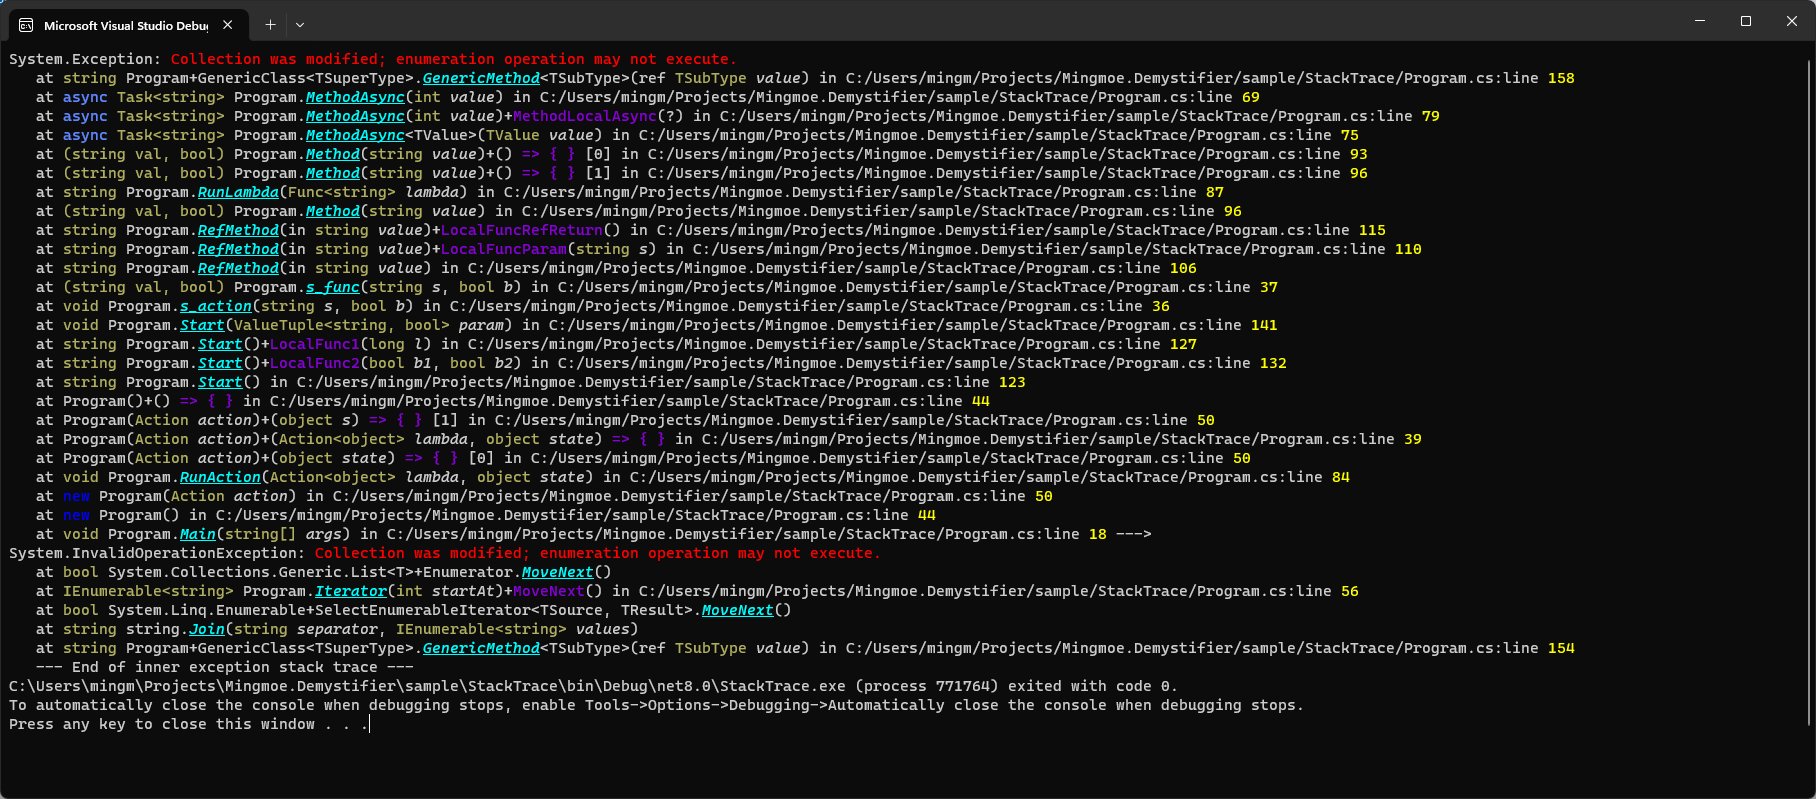
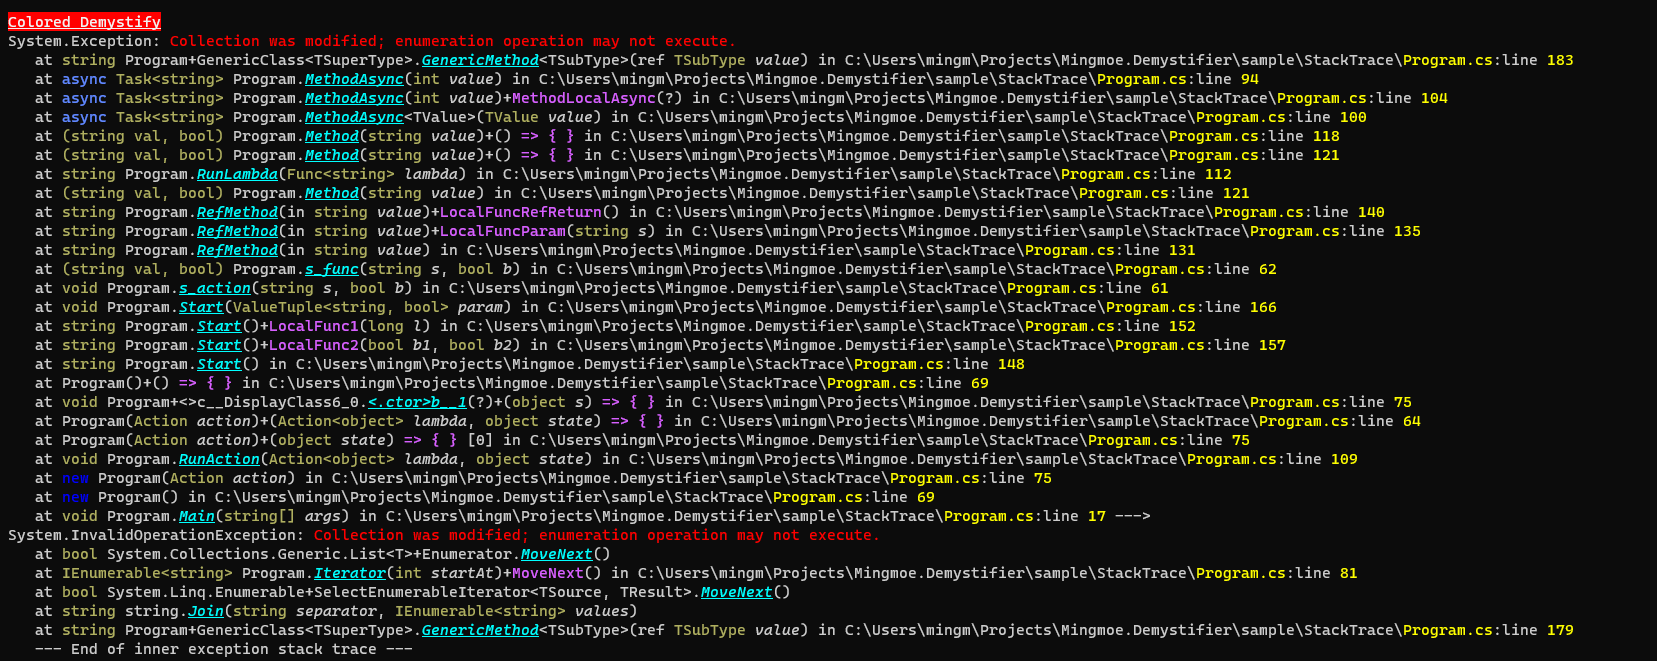
update

diff --git a/src/Mingmoe.Demystifier/ExceptionExtensions.cs b/src/Mingmoe.Demystifier/ExceptionExtensions.cs
@@ -48,6 +48,40 @@ namespace System.Diagnostics
             return exception;
         }
 
+
+        /// <summary>
+        /// Demystifies the given <paramref name="exception"/> and tracks the original stack traces for the whole exception tree.
+        /// </summary>
+        public static T ColoredDemystify<T>(this T exception,StyledBuilderOption? option = null) where T : Exception
+        {
+            option = option ?? StyledBuilderOption.GlobalOption;
+            try
+            {
+                var stackTrace = new EnhancedStackTrace(exception);
+
+                if (stackTrace.FrameCount > 0)
+                {
+                    exception.SetStackTracesString(stackTrace.ToColoredString(option));
+                }
+
+                if (exception is AggregateException aggEx)
+                {
+                    foreach (var ex in EnumerableIList.Create(aggEx.InnerExceptions))
+                    {
+                        ex.ColoredDemystify(option);
+                    }
+                }
+
+                exception.InnerException?.ColoredDemystify(option);
+            }
+            catch
+            {
+                // Processing exceptions shouldn't throw exceptions; if it fails
+            }
+
+            return exception;
+        }
+
         /// <summary>
         /// Gets demystified string representation of the <paramref name="exception"/>.
         /// </summary>
@@ -64,11 +98,11 @@ namespace System.Diagnostics
         [Contracts.Pure]
         public static void PrintColoredStringDemystified(this Exception exception,StyledBuilderOption? option = null)
             => Console.Write(new StyledBuilder().AppendColoredDemystified(exception,
-                option ?? new StyledBuilderOption()));
+                option ?? StyledBuilderOption.GlobalOption));
 
         [Contracts.Pure]
         public static string ToColoredStringDemystified(this Exception exception, StyledBuilderOption? option = null)
             => new StyledBuilder().AppendColoredDemystified(exception,
-                option ?? new StyledBuilderOption()).ToString();
+                option ?? StyledBuilderOption.GlobalOption).ToString();
     }
 }

diff --git a/src/Mingmoe.Demystifier/StyledBuilderOption.cs b/src/Mingmoe.Demystifier/StyledBuilderOption.cs
@@ -9,13 +9,32 @@ namespace Mingmoe.Demystifier;
 
 public class StyledBuilderOption
 {
+    /// <summary>
+    /// Global option.
+    /// Use by default if there is no option passed.
+    /// </summary>
+    public static StyledBuilderOption GlobalOption { get; set; } = new StyledBuilderOption();
 
+    /// <summary>
+    /// The style <see cref="Exception.Message"/>.
+    /// </summary>
     public Style MessageStyle = new Style();
 
-    public Style SourceFilePathStyle = new Style();
+    /// <summary>
+    /// this is path.no file name.
+    /// </summary>
+    public Style SourcePathStyle = new Style();
+
+    /// <summary>
+    /// this is file name.no path.
+    /// </summary>
+    public Style SourceFileStyle = new Style();
 
     public Style LineNumberStyle = new Style();
 
+    /// <summary>
+    /// If ture,will only print the file name of the source file.(no directory path)
+    /// </summary>
     public bool shortenSourceFilePath = false;
 
     public Style KeywordAsyncStyle = new Style();
@@ -28,8 +47,14 @@ public class StyledBuilderOption
 
     public Style MethodNameStyle = new Style();
 
+    /// <summary>
+    /// e.g. the `Namespace1.Namespace2.Class1` for method `Namespace1.Namespace2.Class1.Method()`
+    /// </summary>
     public Style DeclaringTypeOfMethodStyle = new Style();
 
+    /// <summary>
+    /// Submethod or lambda defined in the method.
+    /// </summary>
     public Style SubMethodOrLambdaStyle = new Style();
 
     /// <summary>
@@ -56,13 +81,15 @@ public class StyledBuilderOption
         KeywordDynamicStyle.ForeColor = Color.Blue;
         KeywordAsyncStyle.ForeColor = Color.Cornflowerblue;
 
-        SubMethodOrLambdaStyle.ForeColor = Color.Darkviolet;
+        SubMethodOrLambdaStyle.ForeColor = Color.Mediumorchid1;
         
         MethodNameStyle.isItalic = true;
         MethodNameStyle.isBold = true;
         MethodNameStyle.isUnderline = true;
         MethodNameStyle.ForeColor = Color.Aqua;
         ParamNameStyle.isItalic = true;
+
+        SourceFileStyle.ForeColor = Color.Yellow;
 
         ParamTypeStyle.ForeColor = Color.Darkkhaki;
         MethodReturnTypeStyle.ForeColor = Color.Darkkhaki;

diff --git a/sample/StackTrace/Program.cs b/sample/StackTrace/Program.cs
@@ -12,25 +12,50 @@ class Program
     static void Main(string[] args)
     {
 
-        // Exception exception = null;
         try
         {
             new Program();
         }
         catch (Exception ex)
         {
-            /*
-            Console.WriteLine(ex);
-            exception = ex.Demystify();
-            */
+            using StyledBuilder styled = new();
 
-            StyledBuilderOption option = new();
+            // original
+            styled.Append(new Style()
+            {
+                BackgroundColor = Color.Red,
+                isBold = true,
+                isUnderline = true
+            },"Original");
+            styled.AppendLine();
+            styled.Append(ex.ToString());
 
-            ex.PrintColoredStringDemystified(option);
+            // Demystify
+            styled.AppendLine();
+            styled.AppendLine();
+            styled.Append(new Style()
+            {
+                BackgroundColor = Color.Red,
+                isBold = true,
+                isUnderline = true
+            }, "Demystify");
+            styled.AppendLine();
+            styled.Append(ex.Demystify().ToString());
+
+            // Colored Demystify
+            styled.AppendLine();
+            styled.AppendLine();
+            styled.Append(new Style()
+            {
+                BackgroundColor = Color.Red,
+                isBold = true,
+                isUnderline = true
+            }, "Colored Demystify");
+            styled.AppendLine();
+            styled.Append(ex.ToColoredStringDemystified());
+
+            Console.Write(styled.ToString());
         }
-
-        //Console.WriteLine();
-        //Console.WriteLine(exception);
     }
 
     static Action<string, bool> s_action = (string s, bool b) => s_func(s, b);

diff --git a/test/Mingmoe.Demystifier.Benchmarks/Exceptions.cs b/test/Mingmoe.Demystifier.Benchmarks/Exceptions.cs
@@ -19,11 +19,23 @@ namespace Utopia.Demystifier.Benchmarks
         [Benchmark(Description = "Demystify().ToString()")]
         public string Demystify() => new Exception().Demystify().ToString();
 
+        [Benchmark(Description = "ColoredDemystify().ToString()")]
+        public string ColoredDemystify() => new Exception().ColoredDemystify().ToString();
+
+        [Benchmark(Description = "ToColoredStringDemystifiedtify()")]
+        public string ToColoredString() => new Exception().ToColoredStringDemystified();
+
         [Benchmark(Description = "(left, right).ToString()")]
         public string ToStringForTupleBased() => GetException(() => ReturnsTuple()).ToString();
 
         [Benchmark(Description = "(left, right).Demystify().ToString()")]
         public string ToDemystifyForTupleBased() => GetException(() => ReturnsTuple()).Demystify().ToString();
+
+        [Benchmark(Description = "(left, right).ColoredDemystify().ToString()")]
+        public string ToColoedDemystifyForTupleBased() => GetException(() => ReturnsTuple()).ColoredDemystify().ToString();
+
+        [Benchmark(Description = "(left, right).ToColoredStringDemystified()")]
+        public string ToColoredStringForTupleBased() => GetException(() => ReturnsTuple()).ToColoredStringDemystified();
 
         private static Exception GetException(Action action)
         {

diff --git a/src/Mingmoe.Demystifier/EnhancedStackTrace.cs b/src/Mingmoe.Demystifier/EnhancedStackTrace.cs
@@ -85,6 +85,17 @@ namespace System.Diagnostics
             return sb.ToString();
         }
 
+        public string ToColoredString(StyledBuilderOption option)
+        {
+
+            if (_frames == null || _frames.Count == 0) return "";
+
+            var sb = new StyledBuilder();
+
+            Append(sb,option);
+
+            return sb.ToString();
+        }
 
         internal void Append(StringBuilder sb)
         {
@@ -143,7 +154,10 @@ namespace System.Diagnostics
                     && !string.IsNullOrEmpty(fileName))
                 {
                     sb.Append(" in ");
-                    sb.AppendPath(option.SourceFilePathStyle,TryGetFullPath(fileName),option.shortenSourceFilePath);
+                    sb.AppendPath(
+                        option.SourcePathStyle,
+                        option.SourceFileStyle,
+                        TryGetFullPath(fileName),option.shortenSourceFilePath);
                 }
 
                 var lineNo = frame.GetFileLineNumber();

diff --git a/src/Mingmoe.Demystifier/Style.cs b/src/Mingmoe.Demystifier/Style.cs
@@ -42,6 +42,7 @@ public class Color
     public static readonly Color Cornflowerblue = new Color(95, 135, 255);
     public static readonly Color Darkviolet = new Color(135, 0, 215);
     public static readonly Color Darkkhaki = new Color(175, 175, 95);
+    public static readonly Color Mediumorchid1 = new Color(215, 95, 255);
 }
 
 /// <summary>
@@ -50,7 +51,7 @@ public class Color
 public class Style
 {
 
-    public Color? Background { get; set; } = null;
+    public Color? BackgroundColor { get; set; } = null;
 
     public Color? ForeColor { get; set; } = null;
 
@@ -69,9 +70,9 @@ public class Style
     {
         StringBuilder sb = new StringBuilder();
 
-        if (Background != null)
+        if (BackgroundColor != null)
         {
-            sb.Append($"\x001B[48;2;{Background}m");
+            sb.Append($"\x001B[48;2;{BackgroundColor}m");
         }
         if (ForeColor != null)
         {

diff --git a/src/Mingmoe.Demystifier/StyledBuilder.cs b/src/Mingmoe.Demystifier/StyledBuilder.cs
@@ -25,10 +25,23 @@ public class StyledBuilder : IDisposable
         return this;
     }
 
-    public StyledBuilder AppendPath(Style style,string path,bool shortenPath)
+    public StyledBuilder AppendPath(Style pathStyle,Style fileStyle,string path,bool shortenPath)
     {
-        return this.Append(style,
-            shortenPath ? Path.GetFileName(path) : path);
+        if (shortenPath)
+        {
+            return this.Append(
+                fileStyle,
+                Path.GetFileName(path));
+        }
+        else {
+            return this.Append(
+                pathStyle,
+                Path.GetDirectoryName(path) ?? string.Empty)
+                .Append(Path.DirectorySeparatorChar.ToString())
+                .Append(
+                fileStyle,
+                Path.GetFileName(path));
+        }
     }
 
     public StyledBuilder AppendLine(string text)

diff --git a/README.md b/README.md
@@ -2,15 +2,57 @@
 [![NuGet version (Ben.Demystifier)](https://img.shields.io/nuget/v/Ben.Demystifier.svg?style=flat-square)](https://www.nuget.org/packages/Ben.Demystifier/)
 [![build](https://github.com/benaadams/Ben.Demystifier/workflows/Demystifier%20PR%20Build/badge.svg)](https://github.com/benaadams/Ben.Demystifier/actions)
 
-Output the modern .Net8.0+ features in stack traces that looks like the C# source code that generated them rather than IL formatted.
-*New FEATURE **This Fork***
-[![Demystified stacktrace](./images/image.png)](./image/image.png)
+Print your exceptions **gracefully**!
+
+FEATURE: 
+ - Use [ZString](https://github.com/Cysharp/ZString)
+ - Detailed frame stack information.
+ - Colored(and you can customize it) string.
+
+Like:
+
+
+[![Original stacktrace](./images/original.png)](./image/original.png)
+[![Demystified stacktrace](./images/demystify.png)](./image/demystify.png)
+[![Colored demystified stacktrace](./images/image.png)](./image/image.png)
 
 ### Usage
 
+```C#
+// print to console(stdout)
+exception.PrintColoredStringDemystified();
+
+// or print it by yourself!
+string msg = exception.ToColoredStringDemystified();
+
+// OR
+// save colored amd demystified string to exception
+// NOTE:this may cause something not be colored.
+exception.ColoredDemystify();
+
+// you can customize your own style!
+using Mingmoe.Demystifier;
+
+StyledBuilderOption option = new StyledBuilderOption();
+option.shortenSourceFilePath = false;
+option.SourcePathStyle.BackgroundColor = Color.Red;
+option.ParamNameStyle.ForeColor = new Color(128, 128, 128);
+option.ParamTypeStyle.isBold = true;
+
+// apply it
+ex.PrintColoredStringDemystified(option);
+ex.ToColoredStringDemystified(option);
+ex.ColoredDemystify(option);
+
+// or save it as an global and default option
+// StyledBuilderOption.GlobalOption = option;
+// ex.PrintColoredStringDemystified(); 
+// ex.ToColoredStringDemystified()
+// ex.ColoredDemystify();
+
 ```
-exception.PrintColoredStringDemystified()
-```
+
+Origin function from [Ben.Demystifier](https://github.com/benaadams/Ben.Demystifier) should works.
 
 ### Problems with current stack traces: 
 
